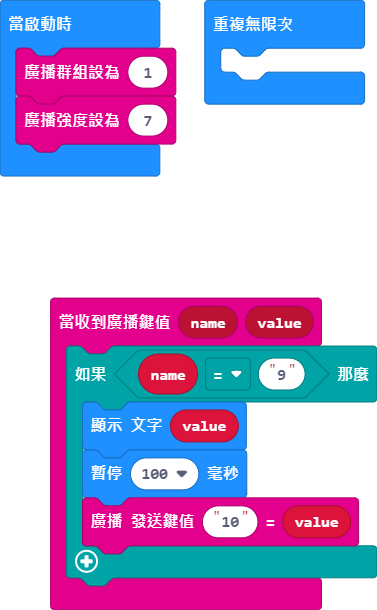
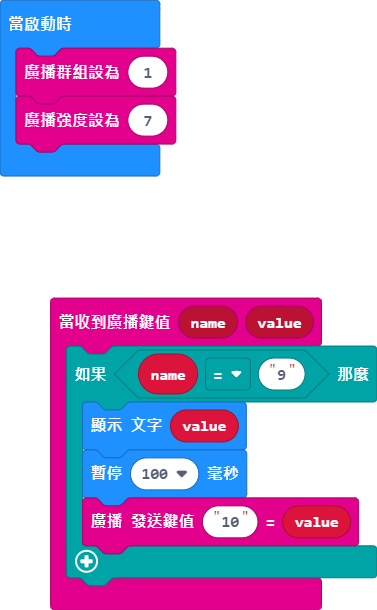
更新 main.blocks, main.ts

Changed region(s): [[0.5252, 0.0, 0.992, 0.1869]]

diff --git a/main.ts b/main.ts
@@ -7,6 +7,3 @@ radio.onReceivedValue(function (name, value) {
 })
 radio.setGroup(1)
 radio.setTransmitPower(7)
-basic.forever(function () {
-	
-})
